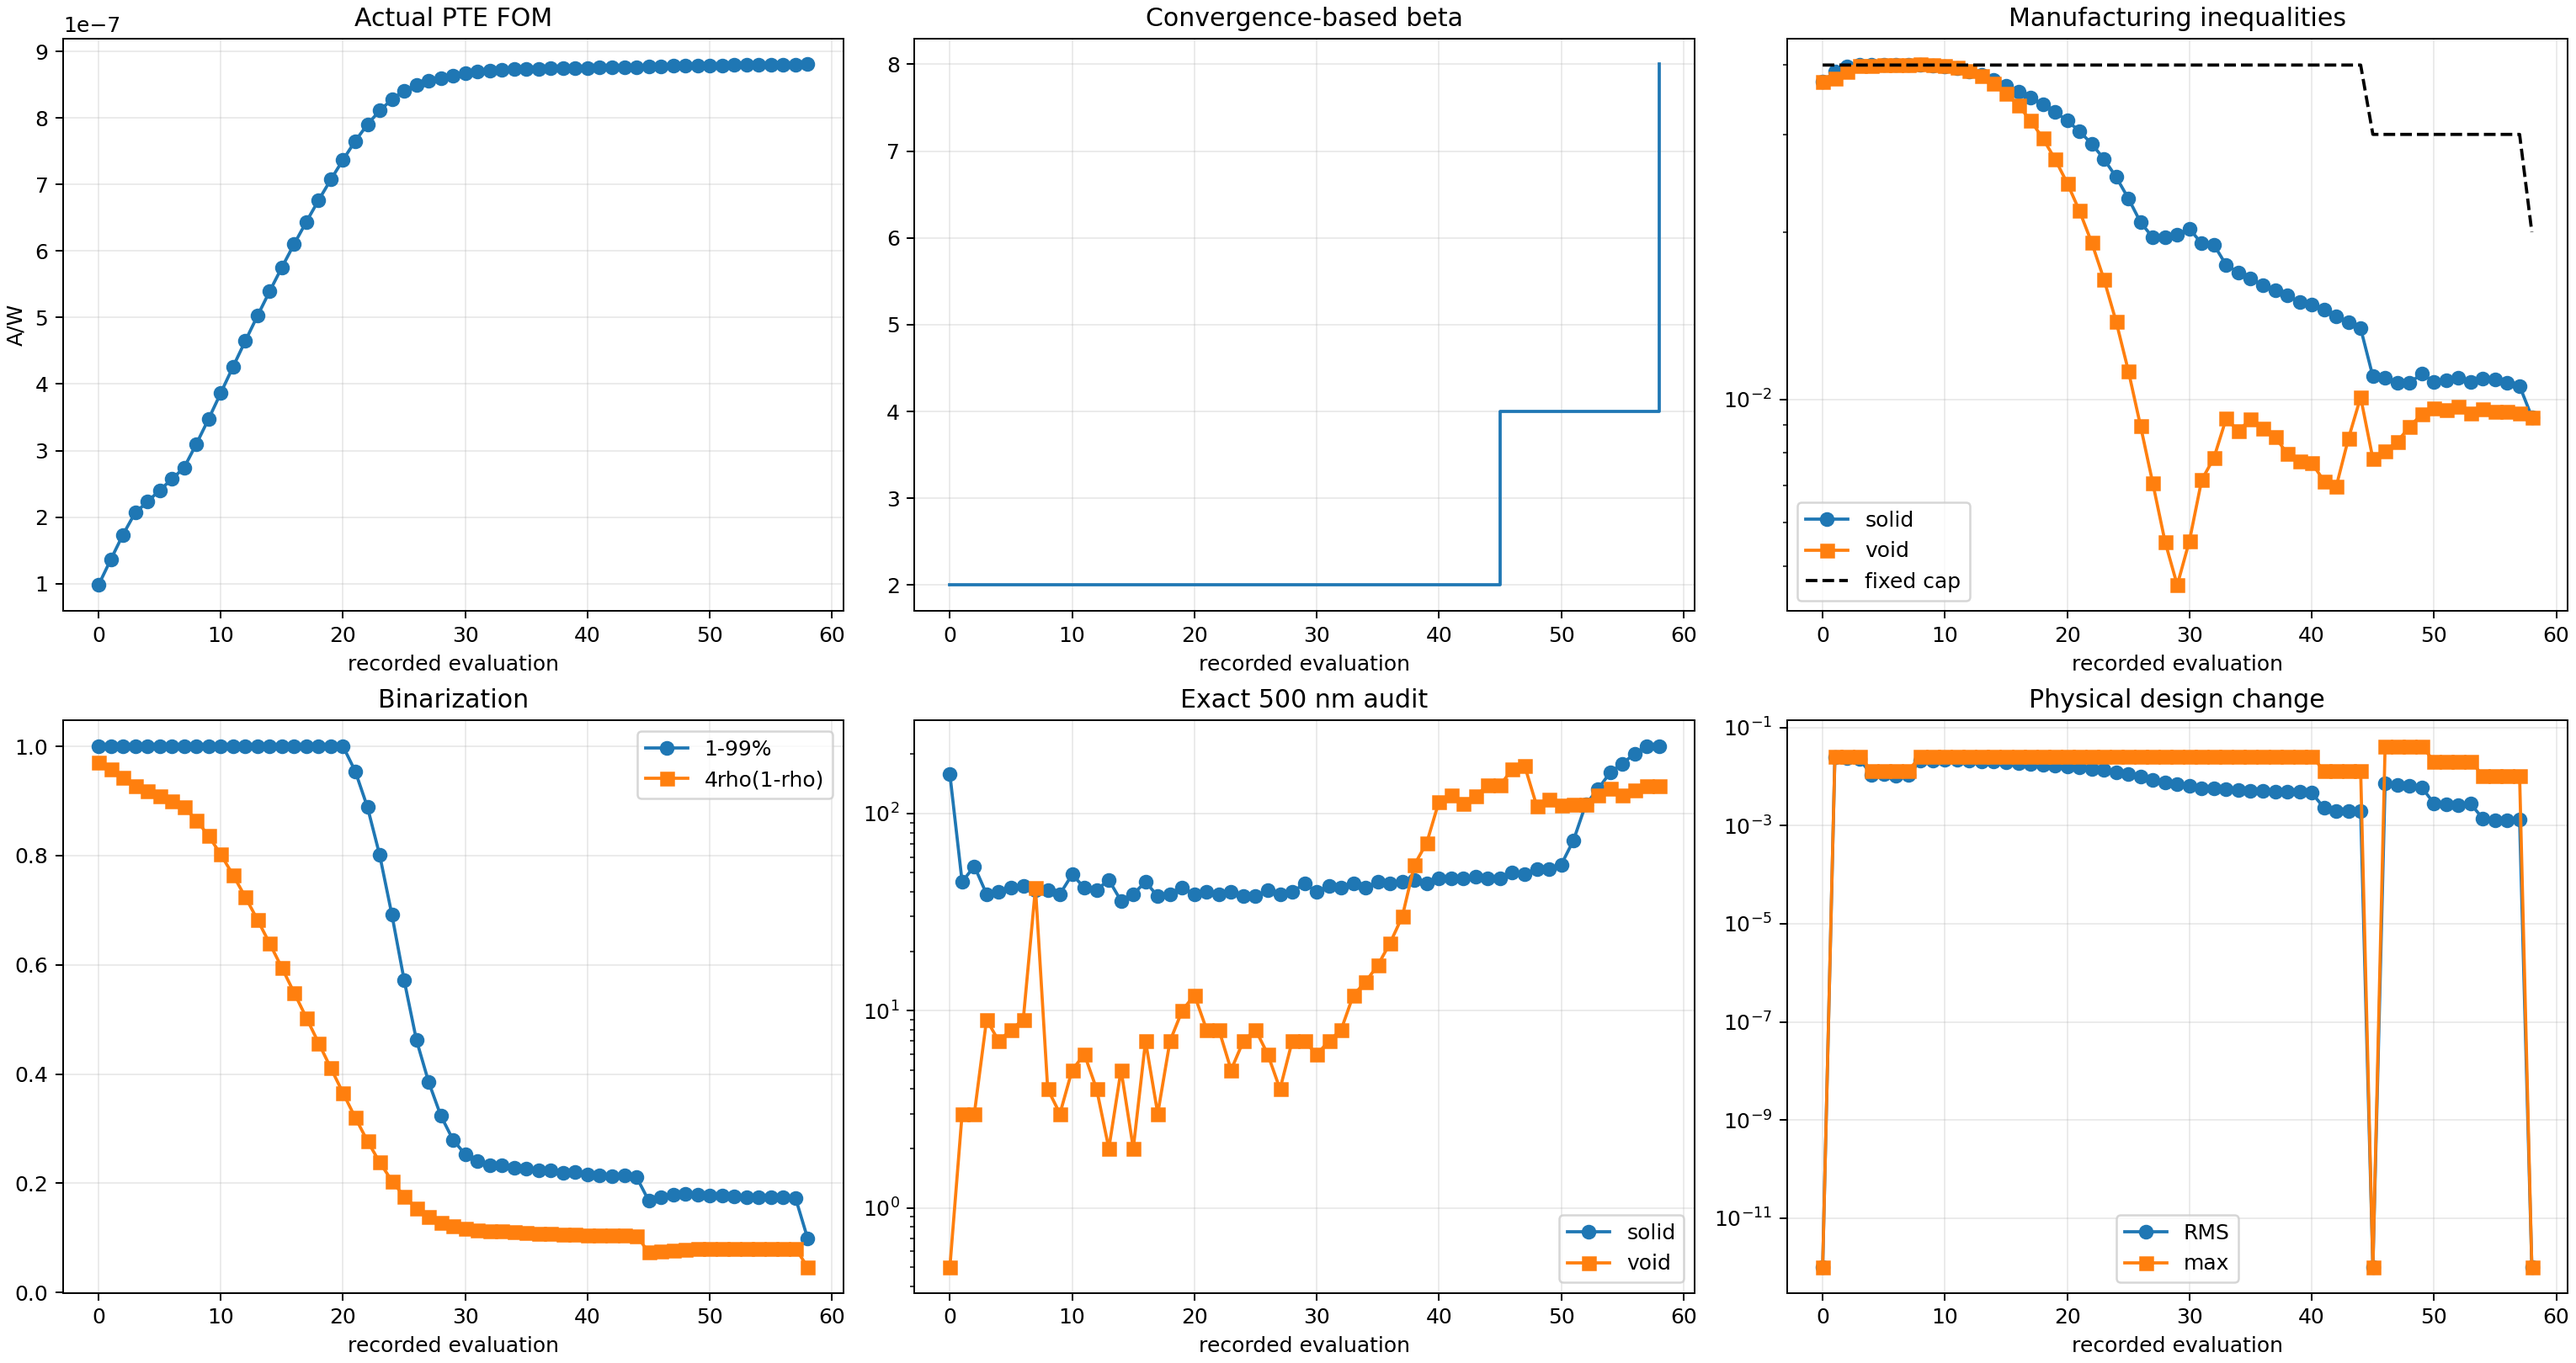
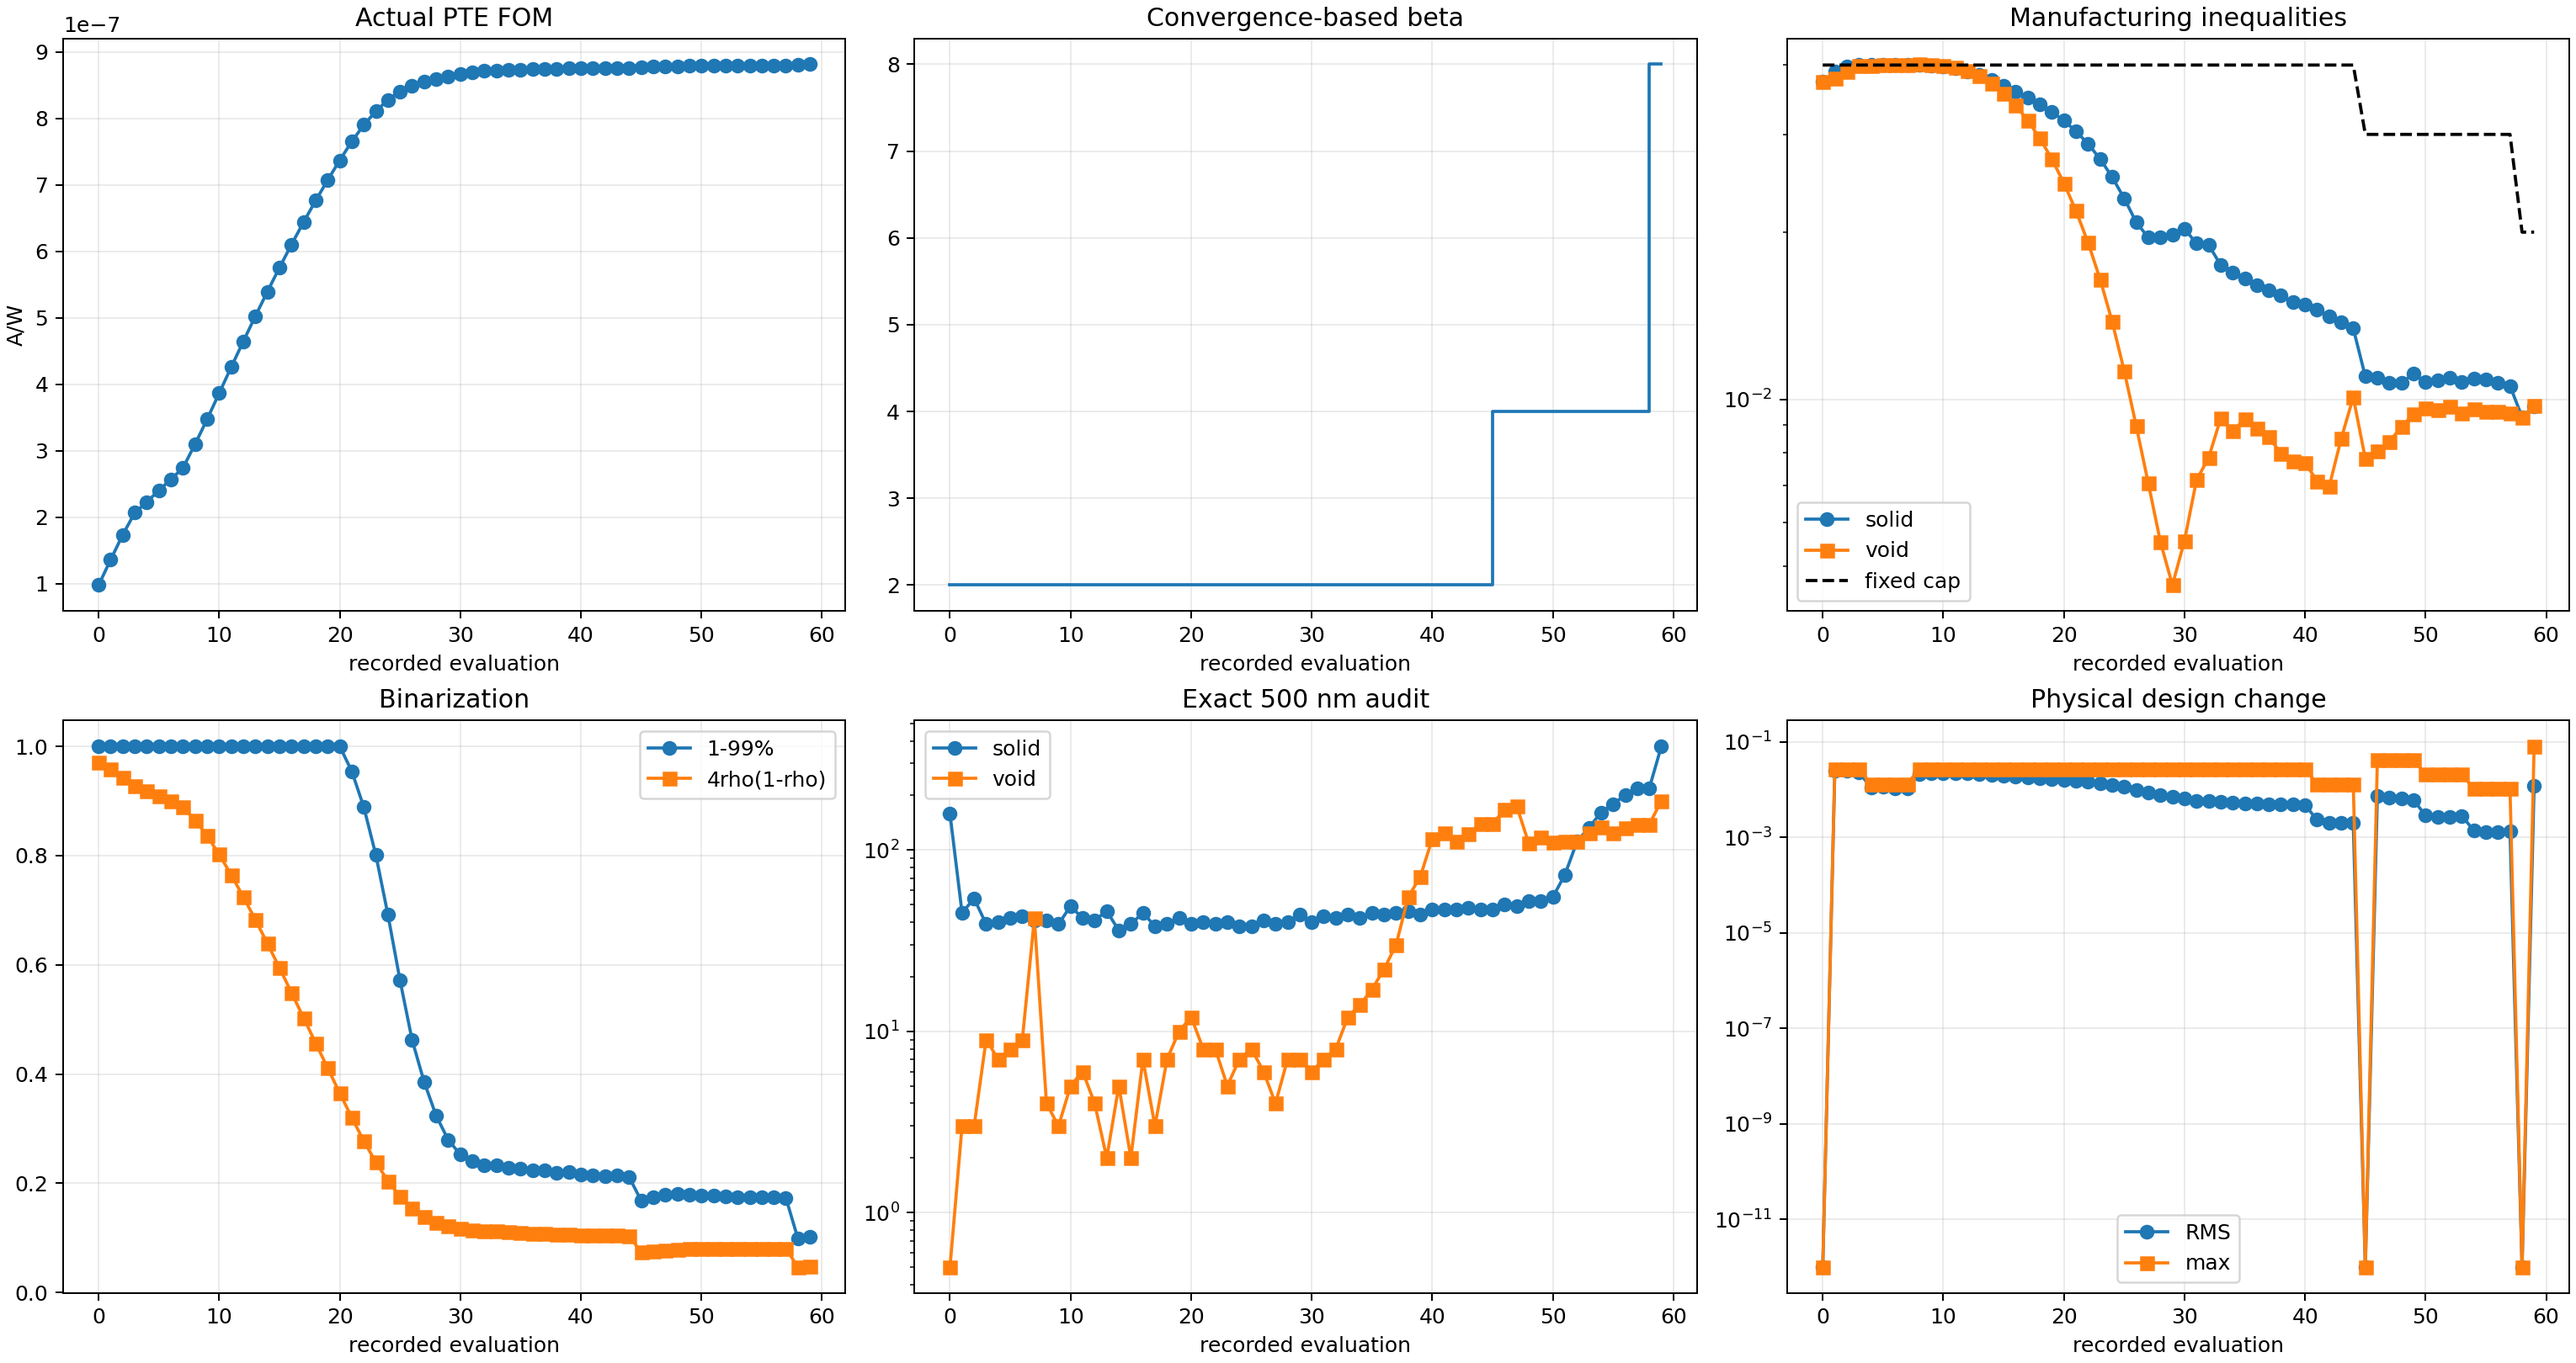
Record Run 003 run003_b008_s001_g057_accepted_mma

diff --git a/photothermal_pte/optimization_runs/run_003_gaussian10_w8p5_current_max_converged/results/OPTIMIZATION_REPORT.md b/photothermal_pte/optimization_runs/run_003_gaussian10_w8p5_current_max_converged/results/OPTIMIZATION_REPORT.md
@@ -2,10 +2,10 @@
 
 Status: `RUNNING_CONVERGENCE_BASED_CONSTRAINED_BETA_CONTINUATION`
 
-Current stage: beta=8, accepted stage iteration=0, global iteration=56.
+Current stage: beta=8, accepted stage iteration=1, global iteration=57.
 
-Actual FOM: `8.806943094398e-07 A/W`. Fixed-cap solid/void constraints: `9.291809e-03` / `9.288026e-03` with cap `2.000000e-02`.
+Actual FOM: `8.815464667036e-07 A/W`. Fixed-cap solid/void constraints: `9.724347e-03` / `9.727959e-03` with cap `2.000000e-02`.
 
-Exact 500 nm bad cells: solid `219`, void `138`. Stage convergence: `False` (need at least 8 accepted updates).
+Exact 500 nm bad cells: solid `373`, void `187`. Stage convergence: `False` (need at least 8 accepted updates).
 
 Beta is promoted only after fixed-inequality feasibility and a four-update FOM/design plateau; it is never promoted after one nominal update.
